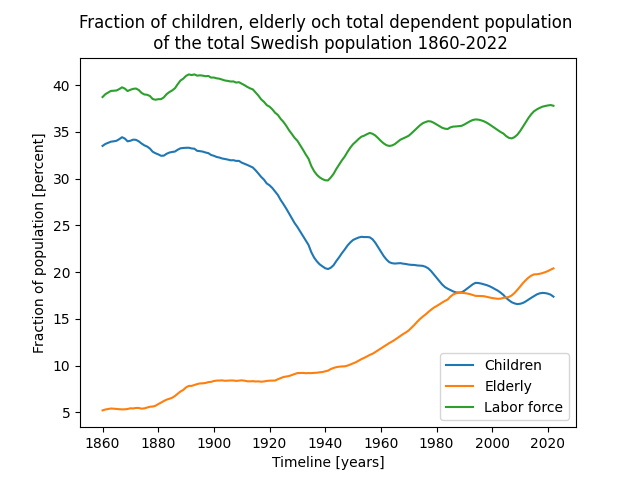
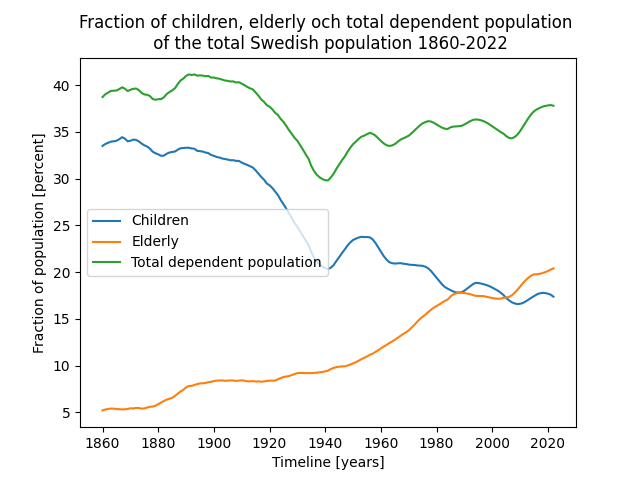
fel plot 2

diff --git a/Assignment1/denpendency_ratio.py b/Assignment1/denpendency_ratio.py
@@ -60,7 +60,7 @@ plt.plot(years, depen_frac)
 plt.xlabel('Timeline [years]')
 plt.ylabel('Fraction of population [percent]')
 plt.title('Fraction of children, elderly och total dependent population \n of the total Swedish population 1860-2022')
-plt.legend(["Children", "Elderly", "Labor force"])
+plt.legend(["Children", "Elderly", "Total dependent population"])
 
 plt.show()
 
